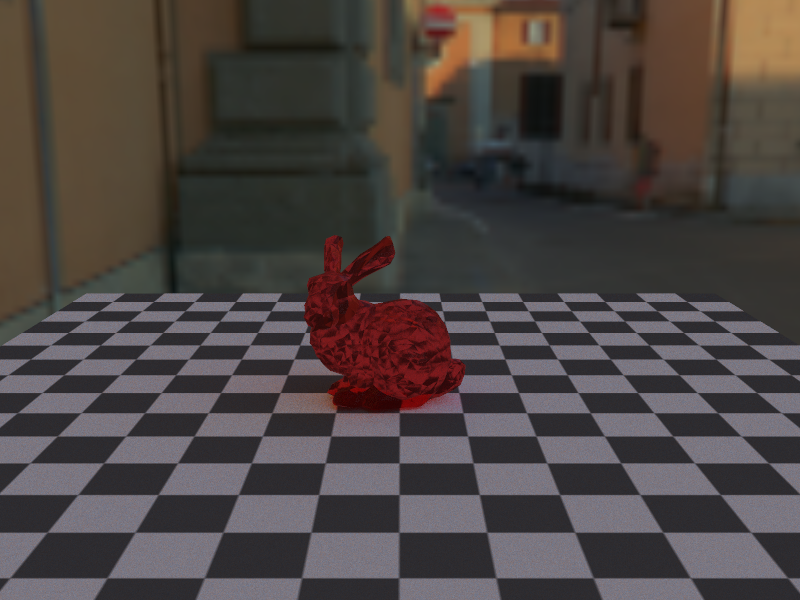
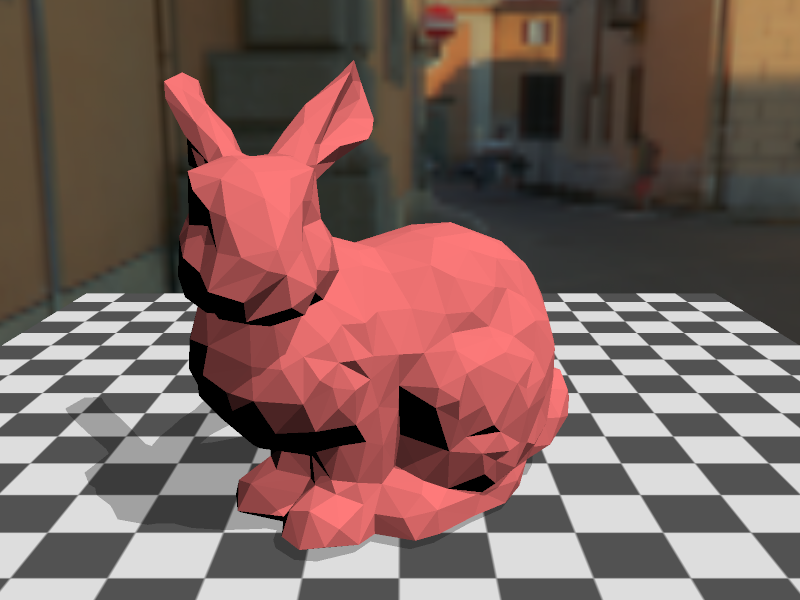
Matrix44 (total 10.099 sec)

diff --git a/src/matrix.rs b/src/matrix.rs
@@ -1,0 +1,190 @@
+use std::ops::{Mul, Index, IndexMut};
+use vector::Vector3;
+
+#[derive(Clone, Debug, Copy)]
+pub struct Matrix44 {
+    elements: [[f64; 4]; 4],
+}
+
+impl Matrix44 {
+    #[cfg_attr(rustfmt, rustfmt_skip)]
+    pub fn identity() -> Matrix44 {
+        Matrix44 {
+            elements: [[1.0, 0.0, 0.0, 0.0],
+                [0.0, 1.0, 0.0, 0.0],
+                [0.0, 0.0, 1.0, 0.0],
+                [0.0, 0.0, 0.0, 1.0]]
+        }
+    }
+
+    pub fn scale_linear(s: f64) -> Matrix44 {
+        Matrix44::scale(s, s, s)
+    }
+
+    #[cfg_attr(rustfmt, rustfmt_skip)]
+    pub fn scale(sx: f64, sy: f64, sz: f64) -> Matrix44 {
+        Matrix44 {
+            elements: [[sx, 0.0, 0.0, 0.0],
+                [0.0, sy, 0.0, 0.0],
+                [0.0, 0.0, sz, 0.0],
+                [0.0, 0.0, 0.0, 1.0]]
+        }
+    }
+
+    #[cfg_attr(rustfmt, rustfmt_skip)]
+    pub fn rotate_x(t: f64) -> Matrix44 {
+        let sin = t.sin();
+        let cos = t.cos();
+        Matrix44 {
+            elements: [[1.0, 0.0, 0.0, 0.0],
+                [0.0, cos, sin, 0.0],
+                [0.0, -sin, cos, 0.0],
+                [0.0, 0.0, 0.0, 1.0]],
+        }
+    }
+
+    #[cfg_attr(rustfmt, rustfmt_skip)]
+    pub fn rotate_y(t: f64) -> Matrix44 {
+        let sin = t.sin();
+        let cos = t.cos();
+        Matrix44 {
+            elements: [[cos, 0.0, -sin, 0.0],
+                [0.0, 1.0, 0.0, 0.0],
+                [sin, 0.0, cos, 0.0],
+                [0.0, 0.0, 0.0, 1.0]],
+        }
+    }
+
+    #[cfg_attr(rustfmt, rustfmt_skip)]
+    pub fn rotate_z(t: f64) -> Matrix44 {
+        let sin = t.sin();
+        let cos = t.cos();
+        Matrix44 {
+            elements: [[cos, sin, 0.0, 0.0],
+                [-sin, cos, 0.0, 0.0],
+                [0.0, 0.0, 1.0, 0.0],
+                [0.0, 0.0, 0.0, 1.0]],
+        }
+    }
+
+    #[cfg_attr(rustfmt, rustfmt_skip)]
+    pub fn translate(tx: f64, ty: f64, tz: f64) -> Matrix44 {
+        Matrix44 {
+            elements: [[1.0, 0.0, 0.0, tx],
+                [0.0, 1.0, 0.0, ty],
+                [0.0, 0.0, 1.0, tz],
+                [0.0, 0.0, 0.0, 1.0]],
+        }
+    }
+
+    pub fn inverse(&self) -> Matrix44 {
+        let mut s = Matrix44::identity();
+        let mut t = self.clone();
+        // Forward elimination
+        for i in 0..3 {
+            let mut pivot = i;
+            let mut pivotsize = t[i][i].abs();
+            for j in (i + 1)..4 {
+                let tmp = t[j][i].abs();
+                if tmp > pivotsize {
+                    pivot = j;
+                    pivotsize = tmp;
+                }
+            }
+
+            if pivotsize == 0.0 {
+                return Matrix44::identity();
+            }
+            if pivot != i {
+                for j in 0..4 {
+                    let mut tmp: f64;
+
+                    tmp = t[i][j];
+                    t[i][j] = t[pivot][j];
+                    t[pivot][j] = tmp;
+
+                    tmp = s[i][j];
+                    s[i][j] = s[pivot][j];
+                    s[pivot][j] = tmp;
+                }
+            }
+            for j in (i + 1)..4 {
+                let f = t[j][i] / t[i][i];
+
+                for k in 0..4 {
+                    t[j][k] -= f * t[i][k];
+                    s[j][k] -= f * s[i][k];
+                }
+            }
+        }
+        // Backward substitution
+        for i in (0..4).rev() {
+            let mut f: f64 = t[i][i];
+
+            if f == 0.0 {
+                // Cannot invert singular matrix
+                return Matrix44::identity();
+            }
+
+            for j in 0..4 {
+                t[i][j] /= f;
+                s[i][j] /= f;
+            }
+
+            for j in 0..i {
+                f = t[j][i];
+
+                for k in 0..4 {
+                    t[j][k] -= f * t[i][k];
+                    s[j][k] -= f * s[i][k];
+                }
+            }
+        }
+
+        return s;
+    }
+}
+
+impl Index<usize> for Matrix44 {
+    type Output = [f64; 4];
+
+    fn index(&self, idx: usize) -> &[f64; 4] {
+        &self.elements[idx]
+    }
+}
+
+impl IndexMut<usize> for Matrix44 {
+    fn index_mut(&mut self, idx: usize) -> &mut [f64; 4] {
+        &mut self.elements[idx]
+    }
+}
+
+impl Mul for Matrix44 {
+    type Output = Matrix44;
+
+    #[cfg_attr(rustfmt, rustfmt_skip)]
+    fn mul(self, other: Matrix44) -> Matrix44 {
+        let mut result = Matrix44::identity();
+        for i in 0..4 {
+            for j in 0..4 {
+                result[i][j] = self[i][0] * other[0][j] +
+                    self[i][1] * other[1][j] +
+                    self[i][2] * other[2][j] +
+                    self[i][3] * other[3][j];
+            }
+        }
+        result
+    }
+}
+
+impl Mul<Vector3> for Matrix44 {
+    type Output = Vector3;
+
+    fn mul(self, other: Vector3) -> Vector3 {
+        Vector3 {
+            x: other.x * self[0][0] + other.y * self[0][1] + other.z * self[0][2] + self[0][3],
+            y: other.x * self[1][0] + other.y * self[1][1] + other.z * self[1][2] + self[1][3],
+            z: other.x * self[2][0] + other.y * self[2][1] + other.z * self[2][2] + self[2][3],
+        }
+    }
+}

diff --git a/src/loader.rs b/src/loader.rs
@@ -3,13 +3,14 @@ use std::path::Path;
 use std::io::{BufReader, BufRead};
 
 use vector::Vector3;
+use matrix::Matrix44;
 use scene::{Mesh, Face};
 use material::Material;
 
 pub struct ObjLoader;
 
 impl ObjLoader {
-    pub fn loadFile(path: &str, material: Material) -> Mesh {
+    pub fn loadFile(path: &str, matrix: Matrix44, material: Material) -> Mesh {
         let mut mesh = Mesh {
             vertexes: vec![],
             faces: vec![],
@@ -23,15 +24,15 @@ impl ObjLoader {
             let split_line: Vec<&str> = l.split(" ").collect();
             match split_line[0] {
                 "v" => {
-                    println!("{}", l);
-                    mesh.vertexes.push(Vector3::new(
+                    let local_vertex = Vector3::new(
                         split_line[1].parse::<f64>().unwrap(),
                         split_line[2].parse::<f64>().unwrap(),
                         split_line[3].parse::<f64>().unwrap(),
-                    ));
+                    );
+                    let world_vertex = matrix * local_vertex;
+                    mesh.vertexes.push(world_vertex);
                 }
                 "f" => {
-                    println!("{}", l);
                     mesh.faces.push(Face {
                         v0: split_line[1].parse::<usize>().unwrap() - 1,
                         v1: split_line[2].parse::<usize>().unwrap() - 1,

diff --git a/src/main.rs b/src/main.rs
@@ -7,6 +7,7 @@ use std::path::Path;
 
 mod consts;
 mod vector;
+mod matrix;
 mod scene;
 mod renderer;
 mod material;
@@ -18,6 +19,7 @@ mod math;
 mod loader;
 
 use vector::Vector3;
+use matrix::Matrix44;
 use scene::{Scene, CameraBuilder, Sphere, Plane, AxisAlignedBoundingBox, Polygon, Mesh, Face, Skybox};
 use material::{Material, SurfaceType};
 use texture::Texture;
@@ -112,6 +114,7 @@ fn render() {
 //            }),
             Box::new(ObjLoader::loadFile(
                 "models/bunny/bunny_face1000.obj",
+                Matrix44::scale_linear(2.0) * Matrix44::translate(0.0, 0.0, 1.0) * Matrix44::rotate_y(-0.5),
                 Material {
                     surface: SurfaceType::GGXReflection { roughness: 0.2, refractive_index: 1.2 },
                     albedo: Texture::from_color(Color::new(1.0, 0.2, 0.2)),
@@ -145,8 +148,8 @@ fn render() {
         ),
     };
 
-    //let renderer = DebugRenderer{};
-    let renderer = PathTracingRenderer {};
+    let renderer = DebugRenderer{};
+    //let renderer = PathTracingRenderer {};
     renderer.render(&scene, &camera, &mut imgbuf);
 
     let ref mut fout = File::create(&Path::new("test.png")).unwrap();
